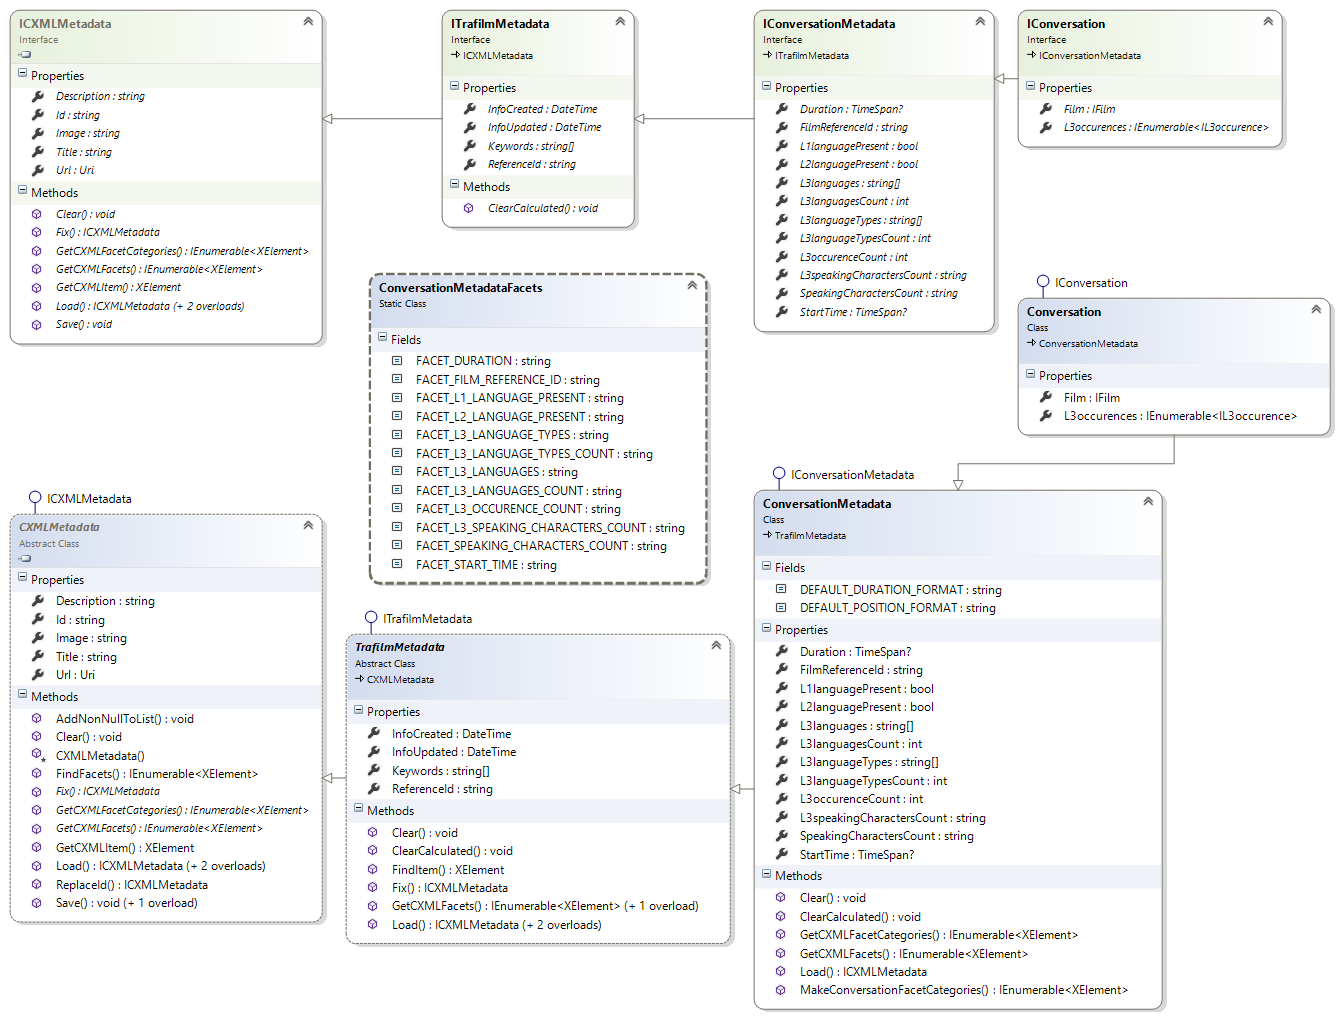
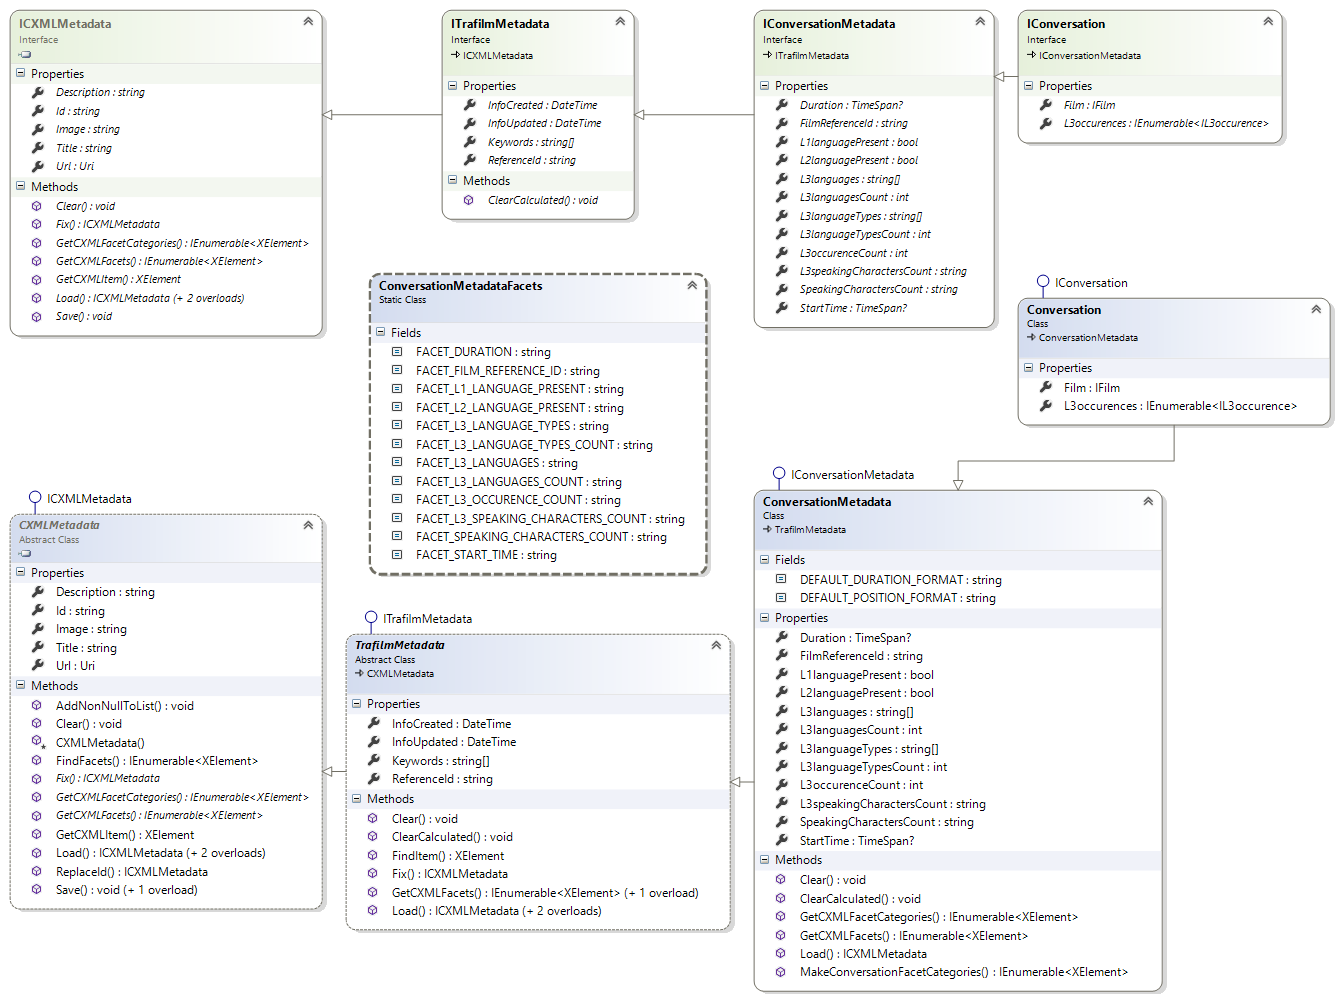
- Updated Facets for L3occurence - Updated Diagrams - Updated NuGet package version

diff --git a/Metadata/L3occurence/L3occurenceMetadata.cs b/Metadata/L3occurence/L3occurenceMetadata.cs
@@ -1,6 +1,6 @@
 //Project: Trafilm.Metadata (https://github.com/Zoomicon/Trafilm.Metadata)
 //Filename: L3occurenceMetadata.cs
-//Version: 20160516
+//Version: 20160517
 
 using Metadata.CXML;
 using Trafilm.Metadata.Models;
@@ -46,7 +46,7 @@ namespace Trafilm.Metadata
 
     public string L3audienceUnderstanding { get; set; }
     public string L3messageUnderstanding { get; set; }
-    public string L3meaningDeciphered { get; set; }
+    public string L3meaningDecipherable { get; set; }
 
     public string L3speakerPerformance { get; set; }
 
@@ -88,7 +88,7 @@ namespace Trafilm.Metadata
 
       L3audienceUnderstanding = "";
       L3messageUnderstanding = "";
-      L3meaningDeciphered = "";
+      L3meaningDecipherable = "";
 
       L3speakerPerformance = "";
 
@@ -129,7 +129,7 @@ namespace Trafilm.Metadata
 
       L3audienceUnderstanding = facets.CXMLFacetStringValue(L3occurenceMetadataFacets.FACET_L3_AUDIENCE_UNDERSTANDING);
       L3messageUnderstanding = facets.CXMLFacetStringValue(L3occurenceMetadataFacets.FACET_L3_MESSAGE_UNDERSTANDING);
-      L3meaningDeciphered = facets.CXMLFacetStringValue(L3occurenceMetadataFacets.FACET_L3_MEANING_DECIPHERED);
+      L3meaningDecipherable = facets.CXMLFacetStringValue(L3occurenceMetadataFacets.FACET_L3_MEANING_DECIPHERABLE);
 
       L3speakerPerformance = facets.CXMLFacetStringValue(L3occurenceMetadataFacets.FACET_L3_SPEAKER_PERFORMANCE);
 
@@ -178,7 +178,7 @@ namespace Trafilm.Metadata
 
       AddNonNullToList(facets, CXML.MakeStringFacet(L3occurenceMetadataFacets.FACET_L3_AUDIENCE_UNDERSTANDING, L3audienceUnderstanding));
       AddNonNullToList(facets, CXML.MakeStringFacet(L3occurenceMetadataFacets.FACET_L3_MESSAGE_UNDERSTANDING, L3messageUnderstanding));
-      AddNonNullToList(facets, CXML.MakeStringFacet(L3occurenceMetadataFacets.FACET_L3_MEANING_DECIPHERED, L3meaningDeciphered));
+      AddNonNullToList(facets, CXML.MakeStringFacet(L3occurenceMetadataFacets.FACET_L3_MEANING_DECIPHERABLE, L3meaningDecipherable));
 
       AddNonNullToList(facets, CXML.MakeStringFacet(L3occurenceMetadataFacets.FACET_L3_SPEAKER_PERFORMANCE, L3speakerPerformance));
 
@@ -227,7 +227,7 @@ namespace Trafilm.Metadata
 
       result.Add(CXML.MakeFacetCategory(L3occurenceMetadataFacets.FACET_L3_AUDIENCE_UNDERSTANDING, CXML.VALUE_STRING, null, isFilterVisible: true, isMetadataVisible: true, isWordWheelVisible: true));
       result.Add(CXML.MakeFacetCategory(L3occurenceMetadataFacets.FACET_L3_MESSAGE_UNDERSTANDING, CXML.VALUE_STRING, null, isFilterVisible: true, isMetadataVisible: true, isWordWheelVisible: true));
-      result.Add(CXML.MakeFacetCategory(L3occurenceMetadataFacets.FACET_L3_MEANING_DECIPHERED, CXML.VALUE_STRING, null, isFilterVisible: true, isMetadataVisible: true, isWordWheelVisible: true));
+      result.Add(CXML.MakeFacetCategory(L3occurenceMetadataFacets.FACET_L3_MEANING_DECIPHERABLE, CXML.VALUE_STRING, null, isFilterVisible: true, isMetadataVisible: true, isWordWheelVisible: true));
 
       result.Add(CXML.MakeFacetCategory(L3occurenceMetadataFacets.FACET_L3_SPEAKER_PERFORMANCE, CXML.VALUE_STRING, null, isFilterVisible: true, isMetadataVisible: true, isWordWheelVisible: false));
 

diff --git a/Metadata/L3occurence/L3occurenceMetadataFacets.cs b/Metadata/L3occurence/L3occurenceMetadataFacets.cs
@@ -1,6 +1,6 @@
 //Project: Trafilm.Metadata (https://github.com/Zoomicon/Trafilm.Metadata)
 //Filename: L3occurenceMetadataFacets.cs
-//Version: 20160516
+//Version: 20160517
 
 namespace Trafilm.Metadata
 {
@@ -26,9 +26,9 @@ namespace Trafilm.Metadata
 
     public const string FACET_L3_CONSTRUCTED_BASED_ON = "L3 constructed based on";
 
-    public const string FACET_L3_AUDIENCE_UNDERSTANDING = "L3 audience understanding";
-    public const string FACET_L3_MESSAGE_UNDERSTANDING = "L3 message understanding";
-    public const string FACET_L3_MEANING_DECIPHERED = "L3 meaning deciphered";
+    public const string FACET_L3_AUDIENCE_UNDERSTANDING = "L3 meant to be understood";
+    public const string FACET_L3_MESSAGE_UNDERSTANDING = "L3 required for understanding";
+    public const string FACET_L3_MEANING_DECIPHERABLE = "L3 meaning decipherable";
 
     public const string FACET_L3_SPEAKER_PERFORMANCE = "L3 speaker performance";
 

diff --git a/Metadata/L3occurence/IL3occurenceMetadata.cs b/Metadata/L3occurence/IL3occurenceMetadata.cs
@@ -1,6 +1,6 @@
 //Project: Trafilm.Metadata (https://github.com/Zoomicon/Trafilm.Metadata)
 //Filename: IL3occurenceMetadata.cs
-//Version: 20160516
+//Version: 20160517
 
 using System;
 
@@ -33,7 +33,7 @@ namespace Trafilm.Metadata.Models
 
     string L3audienceUnderstanding { get; set; }
     string L3messageUnderstanding { get; set; }
-    string L3meaningDeciphered { get; set; }
+    string L3meaningDecipherable { get; set; }
     
     string L3speakerPerformance { get; set; }
 
